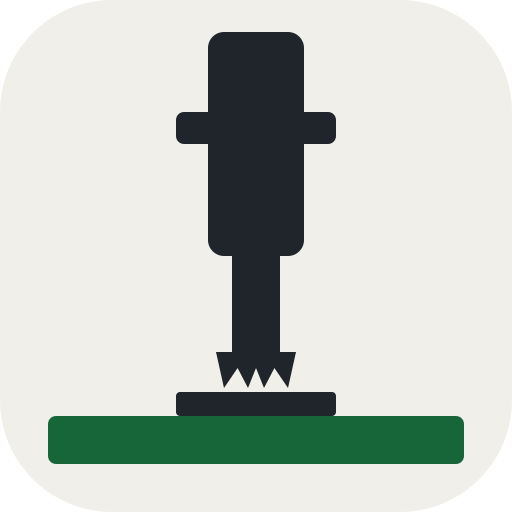
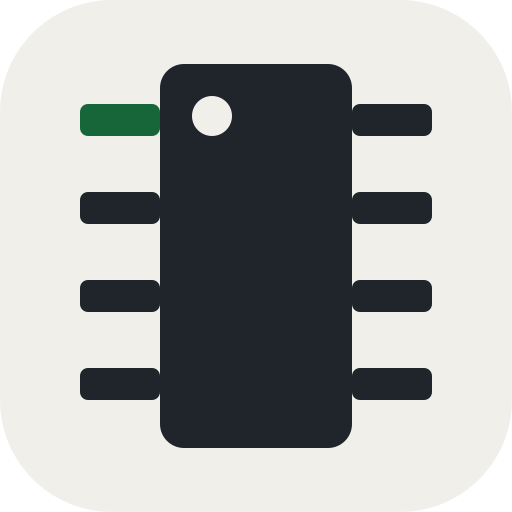
Replace the probe with pin one as pino's mark
A chip from above, eight legs, pin 1 in the accent, the pin-1 dot cut out
of the body (even-odd) so the mark works on any background. The launcher
icons, the logo and the first screen's scribed drawing are drawn from
ui/pinOne.ts.

diff --git a/app/src/renderer/ui/pinOne.ts b/app/src/renderer/ui/pinOne.ts
@@ -1,0 +1,67 @@
+// pino's mark, "pin one": a chip seen from above, eight legs, and its pin-1 dot (the design mocks' logo/e-pin-one).
+// Pin 1 is where a chip's pins are counted from and the first thing checked before a board goes out. The body and
+// seven legs are graphite; pin 1, the top left leg, is in the accent. The dot is a hole cut in the body, so the mark
+// works on any background. The launcher's icons (scripts/pino.svg, pino-16.svg) are what these shapes draw
+// (pinOne.test.ts holds them to it).
+
+export type MarkShape = { fill: 'ink' | 'accent' } & ({ rect: readonly [x: number, y: number, w: number, h: number, r?: number] } | { d: string })
+
+/** The mark on a grid of 64. The body's `d` is its outline and the dot, drawn with the even-odd rule. */
+export const TILE_SHAPES: readonly MarkShape[] = [
+  { d: 'M23 8h18a3 3 0 0 1 3 3v42a3 3 0 0 1 -3 3h-18a3 3 0 0 1 -3 -3v-42a3 3 0 0 1 3 -3zM24 14.5a2.5 2.5 0 1 0 5 0a2.5 2.5 0 1 0 -5 0z', fill: 'ink' },
+  { rect: [10, 13, 10, 4, 1], fill: 'accent' },
+  { rect: [10, 24, 10, 4, 1], fill: 'ink' },
+  { rect: [10, 35, 10, 4, 1], fill: 'ink' },
+  { rect: [10, 46, 10, 4, 1], fill: 'ink' },
+  { rect: [44, 13, 10, 4, 1], fill: 'ink' },
+  { rect: [44, 24, 10, 4, 1], fill: 'ink' },
+  { rect: [44, 35, 10, 4, 1], fill: 'ink' },
+  { rect: [44, 46, 10, 4, 1], fill: 'ink' }
+]
+
+/** Drawn again for 16 px, on whole pixels: the dot is one pixel. */
+export const ICON16_SHAPES: readonly MarkShape[] = [
+  { d: 'M5 1h6v14h-6zM6 2h1v1h-1z', fill: 'ink' },
+  { rect: [2, 3, 3, 1], fill: 'accent' },
+  { rect: [2, 6, 3, 1], fill: 'ink' },
+  { rect: [2, 9, 3, 1], fill: 'ink' },
+  { rect: [2, 12, 3, 1], fill: 'ink' },
+  { rect: [11, 3, 3, 1], fill: 'ink' },
+  { rect: [11, 6, 3, 1], fill: 'ink' },
+  { rect: [11, 9, 3, 1], fill: 'ink' },
+  { rect: [11, 12, 3, 1], fill: 'ink' }
+]
+
+/** The icon as a file: its shapes on a rounded tile, in colours of the caller's. A path is drawn with the even-odd rule. */
+export function markSvg(shapes: readonly MarkShape[], grid: 16 | 64, colours: { ink: string; accent: string; tile?: string }): string {
+  const drawn = shapes.map((s) => {
+    const fill = colours[s.fill]
+    if ('d' in s) return `<path d="${s.d}" fill-rule="evenodd" fill="${fill}"/>`
+    const [x, y, w, h, r] = s.rect
+    return `<rect x="${x}" y="${y}" width="${w}" height="${h}"${r ? ` rx="${r}"` : ''} fill="${fill}"/>`
+  })
+  const tile = colours.tile ? [`<rect width="${grid}" height="${grid}" rx="${grid === 64 ? 14 : 3.5}" fill="${colours.tile}"/>`] : []
+  return [`<svg xmlns="http://www.w3.org/2000/svg" viewBox="0 0 ${grid} ${grid}" width="${grid}" height="${grid}">`, ...[...tile, ...drawn].map((line) => `  ${line}`), '</svg>', ''].join('\n')
+}
+
+// ---- the drawing scribed on the first screen's dye
+
+export const SCRIBE_BOX = '0 0 620 420'
+
+const legY = [100, 180, 260, 340]
+
+/** The chip from above, line by line: the body, the pin-1 circle, then the legs, open where they meet the body. */
+export const SCRIBE_PATHS: readonly string[] = [
+  'M220 60h180a10 10 0 0 1 10 10v310a10 10 0 0 1 -10 10h-180a10 10 0 0 1 -10 -10v-310a10 10 0 0 1 10 -10z',
+  'M234 98a12 12 0 1 0 24 0a12 12 0 1 0 -24 0z',
+  ...legY.flatMap((y) => [`M210 ${y - 14}h-66a4 4 0 0 0 -4 4v20a4 4 0 0 0 4 4h66`, `M410 ${y - 14}h66a4 4 0 0 1 4 4v20a4 4 0 0 1 -4 4h-66`])
+]
+
+/** Pin 1's leg, filled. */
+export const PART = 'M144 86h62a4 4 0 0 1 4 4v20a4 4 0 0 1 -4 4h-62a4 4 0 0 1 -4 -4v-20a4 4 0 0 1 4 -4z'
+
+export const DIMENSIONS: ReadonlyArray<{ text: string; lines: string; x: number; y: number; middle?: true }> = [
+  { text: '3.9', lines: 'M210 30h200M210 20v20M410 20v20', x: 310, y: 18, middle: true },
+  { text: '1.27', lines: 'M520 180v80M510 180h20M510 260h20', x: 540, y: 226 },
+  { text: 'pin 1', lines: 'M140 100h-40l-14 -30', x: 80, y: 62, middle: true }
+]

diff --git a/app/src/renderer/ui/pinOne.test.ts b/app/src/renderer/ui/pinOne.test.ts
@@ -1,0 +1,55 @@
+import { existsSync, readFileSync } from 'node:fs'
+import { resolve } from 'node:path'
+import { expect, it } from 'vitest'
+import { DIMENSIONS, ICON16_SHAPES, markSvg, PART, SCRIBE_PATHS, TILE_SHAPES, type MarkShape } from './pinOne'
+
+const repo = resolve(__dirname, '../../../..')
+const token = (name: string) => new RegExp(`${name}:\\s*(#[0-9A-Fa-f]{6})`).exec(readFileSync(resolve(__dirname, '../styles/tokens.css'), 'utf8'))![1]
+
+/** Every coordinate a shape names: a rect's four, the numbers of a path (arc flags are 0 and 1, whole anyway). */
+const numbers = (s: MarkShape): number[] => ('rect' in s ? s.rect.slice(0, 4) : s.d.match(/-?\d+(?:\.\d+)?/g)!.map(Number)).map((v) => v ?? 0)
+
+it('draws the icon on whole pixels and the tile on the 64 grid', () => {
+  for (const s of ICON16_SHAPES) for (const v of numbers(s)) expect(Number.isInteger(v)).toBe(true)
+  for (const s of TILE_SHAPES) for (const v of numbers(s)) expect(Math.abs(v % 0.5)).toBe(0)
+})
+
+it('has eight legs and a body with the pin-1 dot cut out of it', () => {
+  for (const [shapes, legs] of [[TILE_SHAPES, 8], [ICON16_SHAPES, 8]] as const) {
+    expect(shapes.filter((s) => 'rect' in s)).toHaveLength(legs)
+    const body = shapes.filter((s) => 'd' in s)
+    expect(body).toHaveLength(1)
+    // one outline and one hole: two subpaths, which the even-odd rule leaves open
+    expect((('d' in body[0] && body[0].d) || '').match(/M/g)).toHaveLength(2)
+  }
+})
+
+it('has one shape in the accent, pin 1: the top left leg, and the rest in ink', () => {
+  for (const [shapes, leg] of [[TILE_SHAPES, [10, 13, 10, 4, 1]], [ICON16_SHAPES, [2, 3, 3, 1]]] as const) {
+    const accent = shapes.filter((s) => s.fill === 'accent')
+    expect(accent).toHaveLength(1)
+    expect('rect' in accent[0] && accent[0].rect).toEqual(leg)
+    const legs = shapes.flatMap((s) => ('rect' in s ? [s.rect] : []))
+    // top left: no leg is higher, and none further left
+    expect(Math.min(...legs.map((r) => r[1]))).toBe(leg[1])
+    expect(Math.min(...legs.map((r) => r[0]))).toBe(leg[0])
+  }
+})
+
+it('scribes the chip with its pin 1 leg filled, and its three dimensions', () => {
+  expect(SCRIBE_PATHS).toHaveLength(10)
+  expect(PART).toMatch(/^M[^M]*z$/)
+  expect(DIMENSIONS.map((d) => d.text)).toEqual(['3.9', '1.27', 'pin 1'])
+})
+
+it('writes the even-odd rule for a path with a hole', () => {
+  const svg = markSvg(TILE_SHAPES, 64, { ink: '#000000', accent: '#00ff00' })
+  expect(svg).toMatch(/<path d="[^"]+" fill-rule="evenodd" fill="#000000"\/>/)
+})
+
+it("ships pin one as the launcher's icon: the files are what the shapes draw", () => {
+  const colours = { ink: '#20242B', accent: token('--accent'), tile: '#F1EFEA' }
+  expect(readFileSync(resolve(repo, 'scripts/pino.svg'), 'utf8')).toBe(markSvg(TILE_SHAPES, 64, colours))
+  expect(existsSync(resolve(repo, 'scripts/pino-16.svg'))).toBe(true)
+  expect(readFileSync(resolve(repo, 'scripts/pino-16.svg'), 'utf8')).toBe(markSvg(ICON16_SHAPES, 16, colours))
+})

diff --git a/app/src/renderer/styles/plate.css b/app/src/renderer/styles/plate.css
@@ -1,4 +1,4 @@
-/* ---- The dyed plate (ui/plate/Plate.tsx): solder mask, with the probe scribed on the first screen. Only where there is no board. ---- */
+/* ---- The dyed plate (ui/plate/Plate.tsx): solder mask, with pin one scribed on the first screen. Only where there is no board. ---- */
 
 .plate {
   position: relative;
@@ -15,9 +15,9 @@
   color: var(--on-dye);
 }
 
-/* The probe, scribed on the first screen's dye: as the design has it at 1440 by 900, and clear of the words in a
+/* The chip, scribed on the first screen's dye: as the design has it at 1440 by 900, and clear of the words in a
    shorter window. */
-.probe-drawing {
+.pin-drawing {
   position: absolute;
   top: 8%;
   left: 72px;
@@ -28,7 +28,7 @@
 
 /* Drawn as it stands: the animation below starts from a drawing not yet made and ends here. A line is one dash a
    little longer than its whole (`pathLength` 1), so that no seam is left where it starts and ends. */
-.probe-line {
+.pin-line {
   fill: none;
   stroke: var(--scribe);
   stroke-width: 2.2;
@@ -38,24 +38,18 @@
   stroke-dashoffset: 0;
 }
 
-.probe-part rect {
+.pin-part {
   fill: var(--on-dye-muted);
   fill-opacity: 0.22;
 }
 
-.probe-part path {
-  stroke: var(--scribe);
-  stroke-width: 1;
-  stroke-opacity: 0.6;
-}
-
-.probe-dims path {
+.pin-dims path {
   fill: none;
   stroke: var(--scribe);
   stroke-width: 1.2;
 }
 
-.probe-dims text {
+.pin-dims text {
   fill: var(--scribe);
   font-family: var(--font-mono);
   font-size: 20px;
@@ -63,26 +57,26 @@
 }
 
 @media (prefers-reduced-motion: no-preference) {
-  .probe-line {
-    animation: probe-scribe 1.6s var(--ease) both;
+  .pin-line {
+    animation: pin-scribe 1.6s var(--ease) both;
   }
 
-  .probe-dims {
-    animation: probe-appear 0.5s var(--ease) 1.1s both;
+  .pin-dims {
+    animation: pin-appear 0.5s var(--ease) 1.1s both;
   }
 
-  .probe-part {
-    animation: probe-appear 0.5s var(--ease) 1.4s both;
+  .pin-part {
+    animation: pin-appear 0.5s var(--ease) 1.4s both;
   }
 }
 
-@keyframes probe-scribe {
+@keyframes pin-scribe {
   from {
     stroke-dashoffset: 1.02;
   }
 }
 
-@keyframes probe-appear {
+@keyframes pin-appear {
   from {
     opacity: 0;
   }

diff --git a/app/src/renderer/ui/Logo.tsx b/app/src/renderer/ui/Logo.tsx
@@ -1,18 +1,19 @@
 import { APP } from '../../shared/app'
-import { ICON16_SHAPES, TILE_SHAPES, type ProbeShape } from './probe'
+import { ICON16_SHAPES, TILE_SHAPES, type MarkShape } from './pinOne'
 
 /**
- * pino's mark, the probe, with no tile under it. At 16 and 20 px it is the drawing made for 16, one unit to a pixel (at
- * 20 with two of room round it), so that every edge stands on a whole pixel.
+ * pino's mark, pin one, with no tile under it. The chip's body is drawn with the even-odd rule, so its pin-1 dot is a
+ * hole and the mark sits on any background. At 16 and 20 px it is the drawing made for 16, one unit to a pixel (at 20
+ * with two of room round it), so that every edge stands on a whole pixel.
  */
 export function Logo({ size, tone = 'ink' }: { size: 16 | 20 | 64; tone?: 'ink' | 'on-dye' }) {
   const small = size < 64
-  const shapes: readonly ProbeShape[] = small ? ICON16_SHAPES : TILE_SHAPES
+  const shapes: readonly MarkShape[] = small ? ICON16_SHAPES : TILE_SHAPES
   const room = (size - 16) / 2
   return (
     <svg className="logo" data-tone={tone} width={size} height={size} viewBox={small ? `${-room} ${-room} ${size} ${size}` : '0 0 64 64'} shapeRendering={small ? 'crispEdges' : undefined} role="img" aria-label={APP.name}>
       {shapes.map((s, i) =>
-        'd' in s ? <path key={i} data-fill={s.fill} d={s.d} /> : <rect key={i} data-fill={s.fill} x={s.rect[0]} y={s.rect[1]} width={s.rect[2]} height={s.rect[3]} rx={s.rect[4]} />
+        'd' in s ? <path key={i} data-fill={s.fill} d={s.d} fillRule="evenodd" /> : <rect key={i} data-fill={s.fill} x={s.rect[0]} y={s.rect[1]} width={s.rect[2]} height={s.rect[3]} rx={s.rect[4]} />
       )}
     </svg>
   )

diff --git a/app/src/launcher.test.ts b/app/src/launcher.test.ts
@@ -141,14 +141,15 @@ it('still says how it is used', () => {
   for (const word of ['usage: pino [folder]', '--print-command', '--install-desktop', '--uninstall-desktop', '--print-desktop', 'PINO_OZONE']) expect(help).toContain(word)
 })
 
-it('has the probe for its icon: the mark on its tile, and nothing that runs or reaches out', () => {
+it('has pin one for its icon: the mark on its tile, and nothing that runs or reaches out', () => {
   const svg = readFileSync(join(scripts, 'pino.svg'), 'utf8')
   const tokens = readFileSync(resolve(__dirname, 'renderer/styles/tokens.css'), 'utf8')
   const accent = /--accent:\s*(#[0-9A-Fa-f]{6})/.exec(tokens)![1]
   expect(svg).toContain('viewBox="0 0 64 64"')
-  // the paper tile, and one board in the accent under the probe
+  // the paper tile, the accent used once (pin 1), and the body's dot cut out rather than filled in
   expect(svg).toContain('<rect width="64" height="64" rx="14" fill="#F1EFEA"/>')
   expect(svg.match(new RegExp(accent, 'g'))).toHaveLength(1)
+  expect(svg).toContain('fill-rule="evenodd"')
   expect(svg).not.toMatch(/placeholder/i)
   for (const file of [svg, readFileSync(join(scripts, 'pino-16.svg'), 'utf8')]) expect(file).not.toMatch(/<(script|image|text)|href=/)
 })

diff --git a/app/src/renderer/ui/plate/PinOneDrawing.tsx b/app/src/renderer/ui/plate/PinOneDrawing.tsx
@@ -1,0 +1,26 @@
+import { DIMENSIONS, PART, SCRIBE_BOX, SCRIBE_PATHS } from '../pinOne'
+
+/**
+ * The chip scribed on the first screen's dye, with its dimensions. It is drawn once as the screen comes up: the lines
+ * first, then the dimensions, then pin 1's leg fills (plate.css). With less motion asked for it stands drawn.
+ */
+export function PinOneDrawing() {
+  return (
+    <svg className="pin-drawing" viewBox={SCRIBE_BOX} preserveAspectRatio="xMidYMid meet" aria-hidden="true">
+      <path className="pin-part" d={PART} />
+      {SCRIBE_PATHS.map((d) => (
+        <path key={d} className="pin-line" d={d} pathLength={1} />
+      ))}
+      <g className="pin-dims">
+        {DIMENSIONS.map((dim) => (
+          <g key={dim.text}>
+            <path d={dim.lines} />
+            <text x={dim.x} y={dim.y} textAnchor={dim.middle ? 'middle' : undefined}>
+              {dim.text}
+            </text>
+          </g>
+        ))}
+      </g>
+    </svg>
+  )
+}

diff --git a/app/src/renderer/ui/Welcome.tsx b/app/src/renderer/ui/Welcome.tsx
@@ -3,7 +3,7 @@ import { APP } from '../../shared/app'
 import { readyLines, type ReadyLine } from '../../shared/ready'
 import { numbered } from './numbered'
 import { Plate } from './plate/Plate'
-import { ProbeDrawing } from './plate/ProbeDrawing'
+import { PinOneDrawing } from './plate/PinOneDrawing'
 import { nameOf } from './openFolder'
 import { actions, useStore } from '../state/store'
 
@@ -45,7 +45,7 @@ export function Welcome({ busy, onPick, onOpen }: { busy: boolean; onPick: () =>
     <main className="welcome-page" data-region="viewport">
       <div className="welcome-drag" aria-hidden="true" />
       <Plate>
-        <ProbeDrawing />
+        <PinOneDrawing />
         <h1 className="plate-headline">{APP.name}</h1>
         <p className="plate-lead">
           <strong>Make circuit boards with an AI agent.</strong> It writes the board in Python; you point at what to change.

diff --git a/app/e2e/welcome.spec.ts b/app/e2e/welcome.spec.ts
@@ -16,7 +16,7 @@ test('with no project, the window is the first screen on the green dye, with the
     const plate = page.locator('[data-region="viewport"] .plate')
     await expect(plate).toBeVisible()
     await expect(page.locator('.plate-headline')).toHaveText('pino')
-    await expect(page.locator('.probe-drawing')).toBeVisible()
+    await expect(page.locator('.pin-drawing')).toBeVisible()
     // What pino needs, as the stand-in engine says it; no agent was asked for, so Claude Code is not found.
     await expect(page.getByRole('list', { name: 'What pino needs' }).getByRole('listitem')).toHaveText([
       /^Claude Code was not found/,

diff --git a/.claude/rules/first-screen.md b/.claude/rules/first-screen.md
@@ -41,10 +41,11 @@ paths:
 - **The first screen has no title bar and the window no frame**, so the top 40 px (`welcome-drag`) is a drag strip
   over both halves, and the window controls (`BareControls`) stand over its right end. pino draws the three controls
   itself everywhere (`ui/WindowControls.tsx`): it is Linux only.
-- **The mark is the probe** (`ui/probe.ts`): a spring test probe on a pad, seen from the side. `ui/Logo.tsx` draws
-  it with no tile (at 16 and 20 px from the drawing made on whole pixels). The first screen carries it as a scribed
-  drawing (`ui/plate/ProbeDrawing.tsx`, `plate.css`) that is made once, in 1.6 s, and stands drawn when less motion
-  is asked for. `scripts/pino.svg` and `pino-16.svg` are what the shapes draw (`probe.test.ts`); after a change
+- **The mark is pin one** (`ui/pinOne.ts`): a chip seen from above, eight legs, pin 1 in the accent, and the pin-1
+  dot cut out of the body (even-odd rule), so it works on any background. `ui/Logo.tsx` draws it with no tile (at 16
+  and 20 px from the drawing made on whole pixels). The first screen carries it as a scribed drawing
+  (`ui/plate/PinOneDrawing.tsx`, `plate.css`) that is made once, in 1.6 s, and stands drawn when less motion
+  is asked for. `scripts/pino.svg` and `pino-16.svg` are what the shapes draw (`pinOne.test.ts`); after a change
   there, redraw `scripts/pino.png` with `rsvg-convert -w 512 -h 512 scripts/pino.svg -o scripts/pino.png`.
 - Under the way in, three lines say whether Claude Code, KiCad and the engine are there (`shared/ready.ts`). Main
   asks the engine `version` once a run (`main/engineInfo.ts`), only when the screen asks.

diff --git a/docs/superpowers/specs/2026-11-26-pino-design-picks.md b/docs/superpowers/specs/2026-11-26-pino-design-picks.md
@@ -35,15 +35,17 @@ marks drawn over it. The tab you are not on shows the selection's ref ("Board ·
 selection. The 3D tab is a live three.js view of the board's GLB in B's material look, with torno's compass and
 leader (not a raster render).
 
-## Logo and first screen: B, "the probe"
+## Logo and first screen: E, "pin one"
 
-A spring test probe touching a pad on a green board, seen from the side, in torno's construction (64-unit grid,
-graphite shapes, one green part, a 16 px version on whole pixels). The dyed first screen carries it as a scribed
-drawing whose dimensions draw themselves once (1.6 s). Source shapes: `design/mockups/logo/b-probe.html` on the
-`design-mocks` branch.
+Picked by Luis on 2026-11-26, replacing the probe (B). A chip seen from above with eight legs, in torno's
+construction (64-unit grid, graphite shapes, one green part, a 16 px version on whole pixels). Pino is pin 1: where a
+chip's pins are counted from, and the first thing checked before a board goes out. Pin 1, the top left leg, is the
+green one, and the pin-1 dot is a hole cut in the body, so the mark works on any background. The dyed first screen
+carries it as a scribed drawing whose dimensions (3.9, 1.27, pin 1) draw themselves once (1.6 s). Source shapes:
+`design/mockups/logo/e-pin-one.html` on the `design-mocks` branch.
 
 ## Open for Luis
 
 - Is the drafting view too quiet as a first impression? Net colours on by default instead?
-- Violet for his marks, and the probe over the header-pins logo (A)?
+- Violet for his marks?
 - The first screen's tagline.

diff --git a/.claude/rules/launcher-and-packaging.md b/.claude/rules/launcher-and-packaging.md
@@ -32,8 +32,9 @@ Linux only. There is no packaged app yet.
 
 ## The icon
 
-- `scripts/pino.svg` is a placeholder until the design mocks: a solder-mask green tile with a pad on it. The desktop
-  entry names it. `scripts/pino.png` is the same at 512 px (`rsvg-convert -w 512 -h 512 scripts/pino.svg -o
-  scripts/pino.png`), for the window: Electron reads no SVG. Change one, render the other.
+- `scripts/pino.svg` is the mark, pin one, on a paper tile, and `pino-16.svg` the 16 px drawing; both are what
+  `ui/pinOne.ts` draws (`pinOne.test.ts` holds them to it). The desktop entry names `pino.svg`.
+  `scripts/pino.png` is the same at 512 px (`rsvg-convert -w 512 -h 512 scripts/pino.svg -o scripts/pino.png`), for
+  the window: Electron reads no SVG. Change one, render the other.
 - `app.setName`, `setDesktopName('pino.desktop')` and the entry's `StartupWMClass=pino` are how the desktop matches
   the window to its entry.

diff --git a/CLAUDE.md b/CLAUDE.md
@@ -59,7 +59,7 @@ changed.
   `app/src/shared/contrast.test.ts`.
 - Type: Instrument Sans and Martian Mono from `@fontsource`, latin, bundled. Family names are written only in
   `shared/fonts.ts` and `renderer/styles/tokens.css`.
-- The mark is the probe (`renderer/ui/probe.ts`): the logo, the first screen's drawing and the icons are drawn from it.
+- The mark is pin one (`renderer/ui/pinOne.ts`): the logo, the first screen's drawing and the icons are drawn from it.
 - Linux only. No macOS code paths.
 - Tests never run the real `claude`: they set `PINO_AGENT_CMD` to the stand-in.
 - Tests never reach the network: jlcsearch answers are recorded (`PINO_PARTS_RECORDED`), every launch sets
